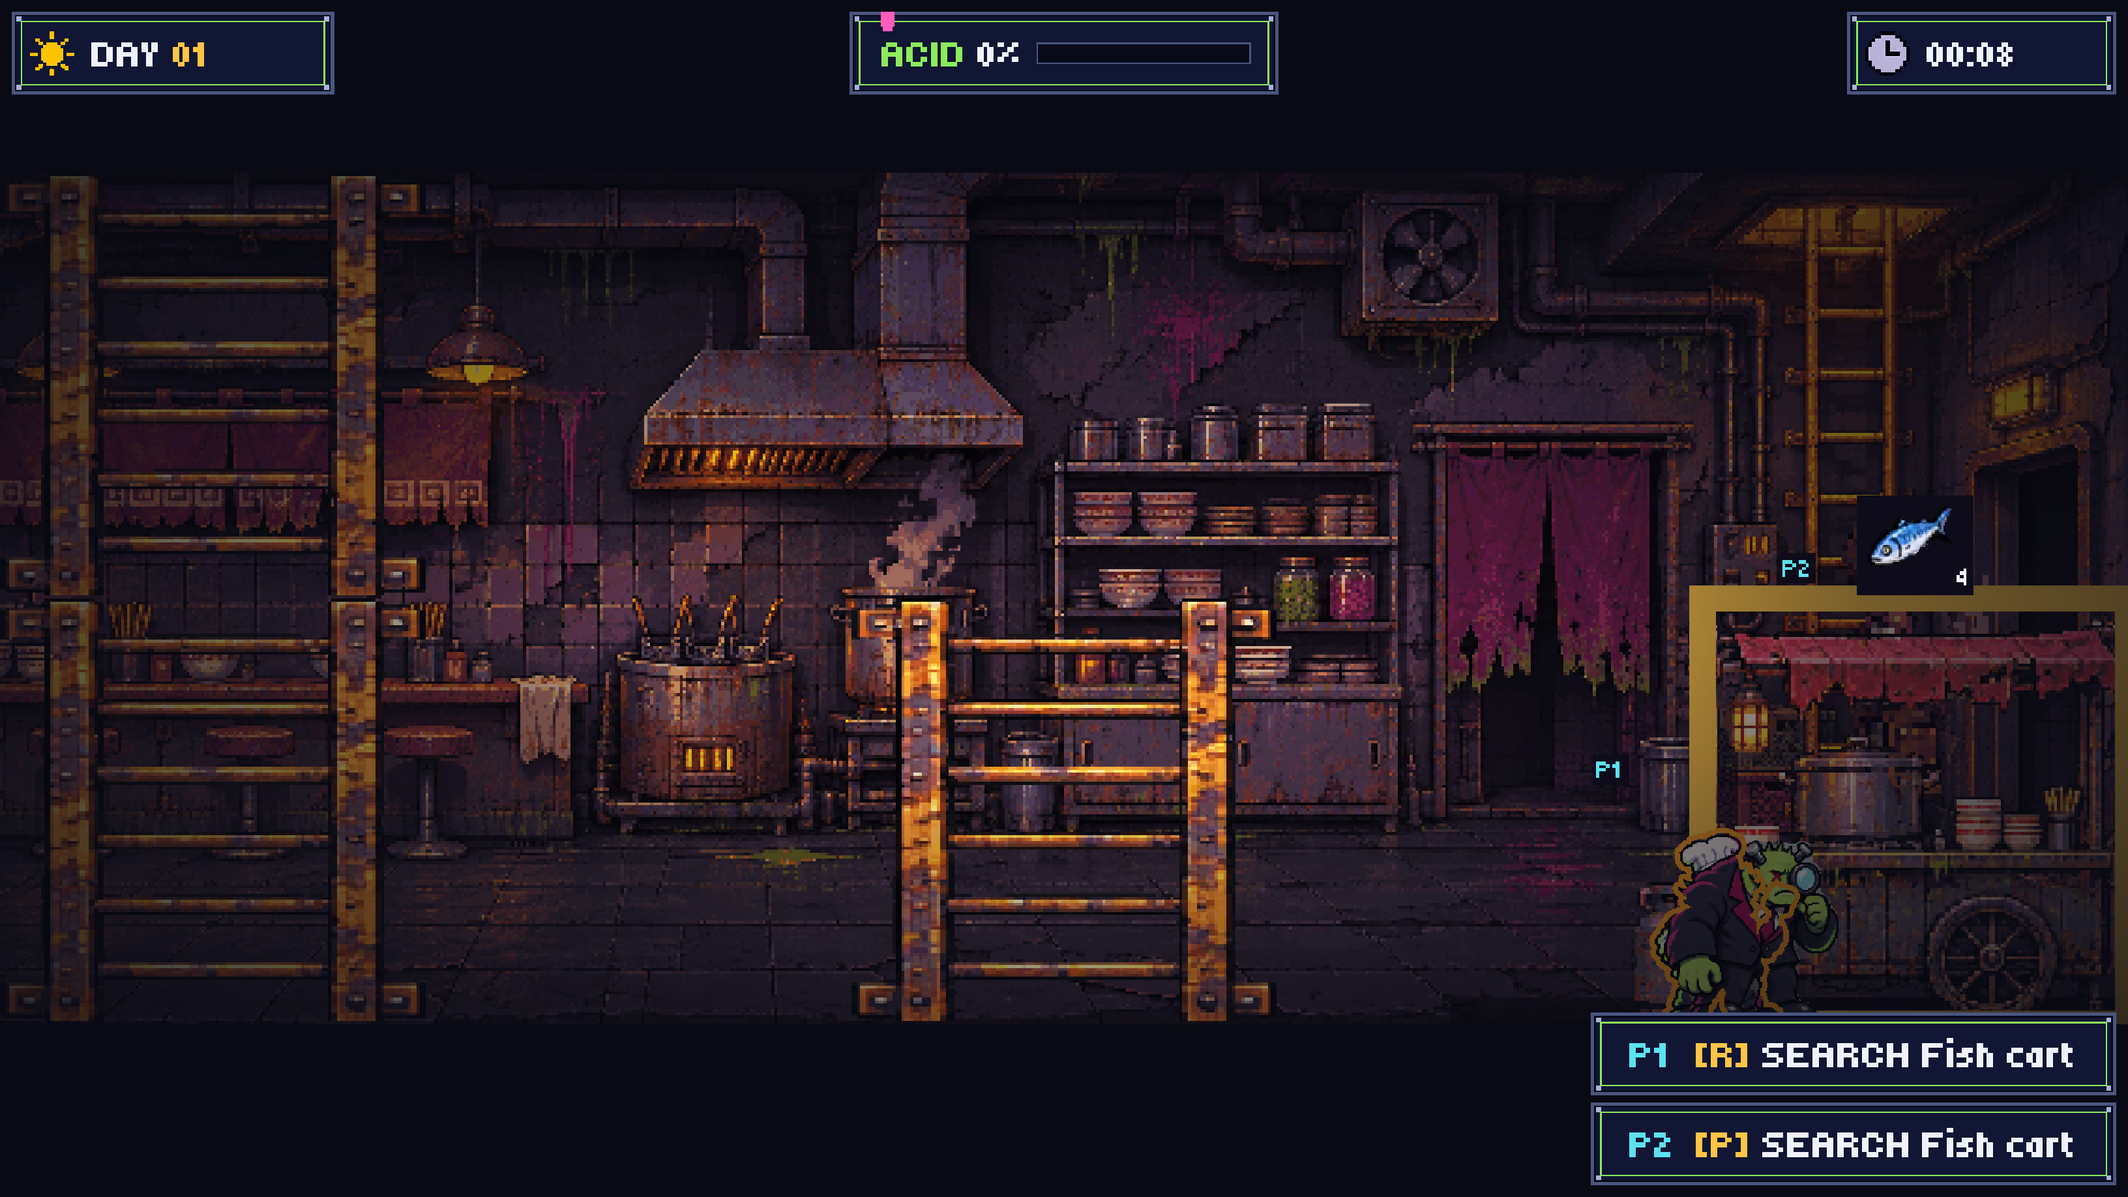
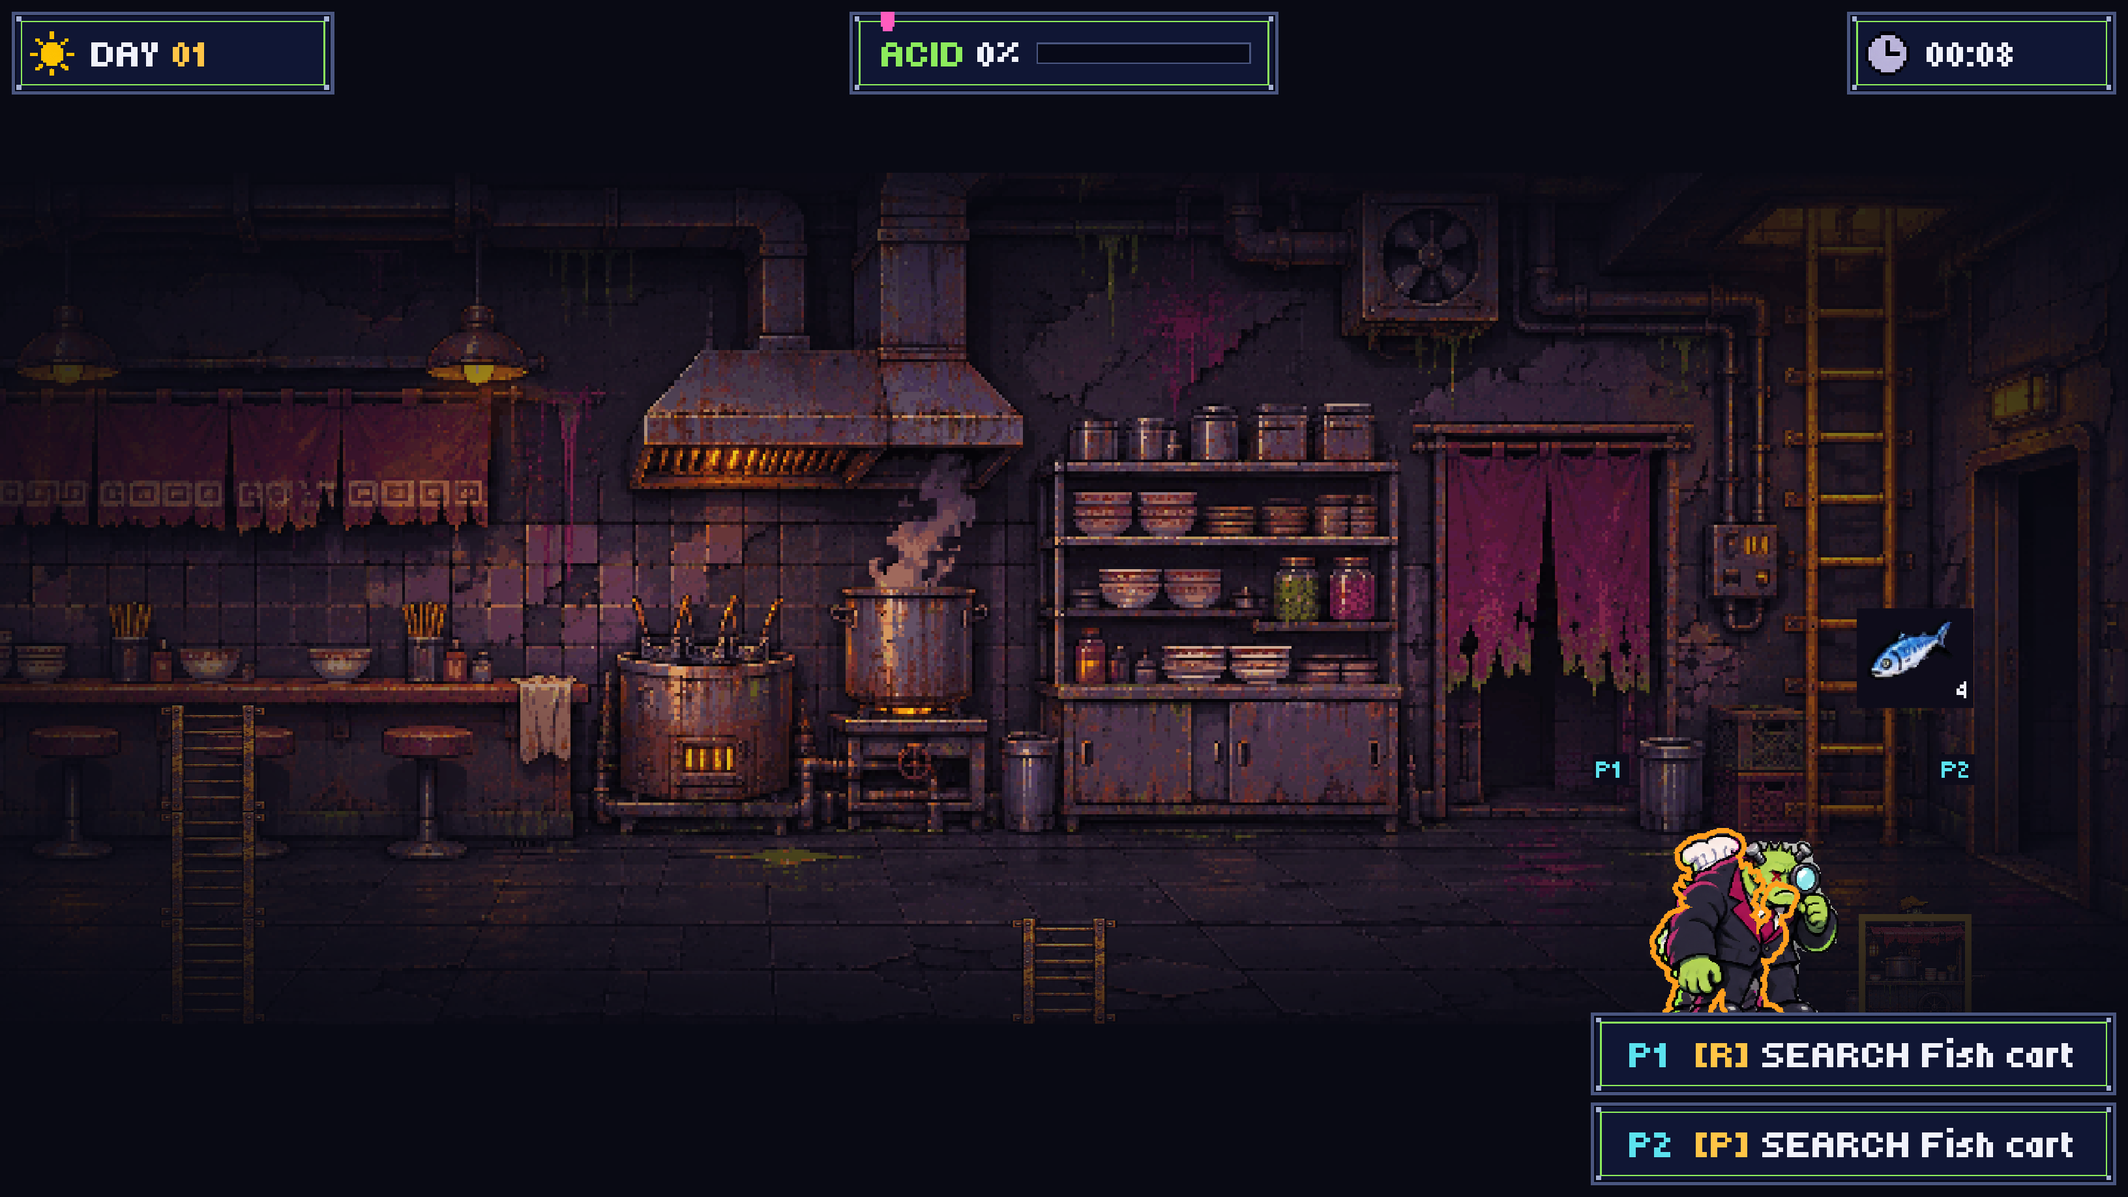
feat: draw the map's objects at room scale indoors and strengthen the vignette

diff --git a/src/rendering/survival.cpp b/src/rendering/survival.cpp
@@ -1187,22 +1187,29 @@ struct VignetteRing {
   float opacity;
 };
 constexpr std::array VIGNETTE_RINGS{
-    VignetteRing{.reach = 0.3F, .opacity = 0.0F},
-    VignetteRing{.reach = 0.75F, .opacity = 0.55F},
-    VignetteRing{.reach = 1.5F, .opacity = 1.0F}};
+    VignetteRing{.reach = 0.4F, .opacity = 0.0F},
+    VignetteRing{.reach = 0.75F, .opacity = 0.4F},
+    VignetteRing{.reach = 1.0F, .opacity = 0.75F},
+    VignetteRing{.reach = 1.45F, .opacity = 1.0F}};
 constexpr int VIGNETTE_STEPS = 48;
 
-void paint_vignette(godot::Node2D &canvas, const Art &art) {
+void paint_vignette(godot::Node2D &canvas, const Art &art,
+                    const godot::Rect2 &room) {
   const auto kept = art.looking();
   art.look(canvas, Vector2(), 1.0F);
   const Vector2 middle(SCREEN_WIDTH / 2.0F, SCREEN_HEIGHT / 2.0F);
+  // The oval's half size: the screen's width, and the room's height on the
+  // screen where it is shorter than the screen, so the room's top and bottom
+  // darken as its sides do.
+  const Vector2 half(middle.x,
+                     std::min(middle.y, room.size.y * kept.zoom / 2.0F));
   const auto tone = palette().background;
   const auto point = [&](const VignetteRing &ring, int step) {
     const float angle = 2.0F * std::numbers::pi_v<float> *
                         static_cast<float>(step) /
                         static_cast<float>(VIGNETTE_STEPS);
-    return middle + Vector2(std::cos(angle) * middle.x * ring.reach,
-                            std::sin(angle) * middle.y * ring.reach);
+    return middle + Vector2(std::cos(angle) * half.x * ring.reach,
+                            std::sin(angle) * half.y * ring.reach);
   };
   const auto shade = [&](const VignetteRing &ring) {
     auto edge = tone;
@@ -1288,6 +1295,22 @@ std::optional<Image> supply_icon(const ObjectSnapshot &source) {
     name = survival::ingredient_name(*source.ingredient);
   }
   return item_icon(name);
+}
+
+/// Where `area` stands when it is drawn inside a building, scaled by `scale`
+/// about the middle of its bottom edge within `extent`: whole objects stand on
+/// the room's floor, and one reaching below the room, as a ladder does, keeps
+/// the part that is in the room.
+Vector2 indoor_pivot(const godot::Rect2 &area, const godot::Rect2 &extent) {
+  const auto shown = area.intersection(extent);
+  return {area.get_center().x,
+          shown.has_area() ? shown.get_end().y : area.get_end().y};
+}
+
+godot::Rect2 indoors(const godot::Rect2 &area, const godot::Rect2 &extent,
+                     float scale) {
+  const Vector2 pivot = indoor_pivot(area, extent);
+  return {pivot + (area.position - pivot) * scale, area.size * scale};
 }
 
 /// One source as the map shows it.
@@ -1702,7 +1725,11 @@ Labels label_city(const Art &art, const survival::GameView &view,
   const auto red = color(255, 150, 150, 1.0F);
   const auto party = party_of(view);
   const auto on_screen = [&](const survival::WorldArea &area) {
-    return to_screen(camera, area_rect(area));
+    const auto box = area_rect(area);
+    return to_screen(
+        camera, camera.inside
+                    ? indoors(box, camera.room, actor_scale(true, camera.zoom))
+                    : box);
   };
   Labels labels{.plates = {},
                 .pointers = camera.inside
@@ -2195,16 +2222,38 @@ void paint_city(godot::Node2D &canvas, const Art &art,
       paint_passage(canvas, art, object, false);
     }
   });
+  // Inside a building the map's objects are drawn at the actors' size, each
+  // on the floor of its room, as the room's picture is at a quarter of theirs.
+  const auto at_room_scale = [&](survival::WorldArea where, auto &&draw) {
+    if (!inside) {
+      draw();
+      return;
+    }
+    const auto kept = art.looking();
+    const float scale = actor_scale(true, kept.zoom);
+    const Vector2 pivot = indoor_pivot(area_rect(where), inside->extent);
+    art.look(canvas, (kept.origin + pivot * kept.zoom * (1.0F - scale)).round(),
+             kept.zoom * scale);
+    draw();
+    art.look(canvas, kept.origin, kept.zoom);
+  };
   paint_kind(ObjectKind::Ladder, [&](const ObjectSnapshot &object) {
-    paint_passage(canvas, art, object, true);
+    at_room_scale(object.area,
+                  [&] { paint_passage(canvas, art, object, true); });
   });
   paint_kind(ObjectKind::Npc, [&](const ObjectSnapshot &object) {
-    paint_npc(canvas, art, object);
+    at_room_scale(object.area, [&] { paint_npc(canvas, art, object); });
   });
   for (const auto &marker : markers) {
-    paint_source(canvas, art, marker);
+    at_room_scale(marker.object.area,
+                  [&] { paint_source(canvas, art, marker); });
   }
   paint_mutants(canvas, art, view);
+  // The room darkens toward the screen's edges under the actors, so they and
+  // the words stay readable.
+  if (inside) {
+    paint_vignette(canvas, art, inside->extent);
+  }
   canvas.set_meta("character_layers", godot::Array());
   if (canvas.has_meta("measure_art")) {
     canvas.set_meta("actor_outlines", godot::Array());
@@ -2225,7 +2274,6 @@ void paint_city(godot::Node2D &canvas, const Art &art,
   paint_interior_covers(canvas, art, everything, view, inside.has_value());
   if (inside) {
     paint_interior_mask(canvas, inside->extent);
-    paint_vignette(canvas, art);
   }
   // The measuring checks read whether the screen is only an inside.
   if (canvas.has_meta("measure_art")) {
@@ -2290,7 +2338,12 @@ void paint_city_labels(godot::Node2D &canvas, const Art &art,
   godot::Array areas;
   for (const auto &marker : markers) {
     drawn.push_back(from(survival::object_name(marker.object.id)));
-    areas.push_back(to_screen(shot.camera, area_rect(marker.object.area)));
+    const auto box = area_rect(marker.object.area);
+    areas.push_back(to_screen(shot.camera,
+                              shot.camera.inside
+                                  ? indoors(box, shot.camera.room,
+                                            actor_scale(true, shot.camera.zoom))
+                                  : box));
   }
   canvas.set_meta("map_plates", labels.plates.boxes());
   canvas.set_meta("map_words", labels.plates.words());

diff --git a/src/rendering/camera.cpp b/src/rendering/camera.cpp
@@ -22,6 +22,8 @@ constexpr float PLAY_HEIGHT = 478.0F;
 /// picture pixel stays a whole square of screen pixels.
 constexpr float CLOSE = 2.0F;
 constexpr float FAR = 1.0F;
+/// How far past a building's rooms, up and down, the camera may look.
+constexpr float OVERLOOK = 4000.0F;
 /// How far ahead of the actors the camera looks, in layout pixels on the
 /// screen, so the actors stand that far behind the middle whatever the zoom.
 constexpr float LOOK_AHEAD = 160.0F;
@@ -81,6 +83,14 @@ godot::Rect2 bounds_of(const survival::MapContent &map) {
       map_point({.x = map.size.width * survival::SUBCELLS, .y = 0});
   return {corner.x - EDGE_ROOM, 0.0F,
           far_corner.x - corner.x + 2.0F * EDGE_ROOM, SCREEN_HEIGHT};
+}
+
+/// Where the camera may look inside a building: its sides, and any height, as
+/// the floors the actors stand on are framed upright and the screen shows
+/// darkness past the building.
+godot::Rect2 bounds_inside(const godot::Rect2 &room) {
+  return {room.position.x, room.position.y - OVERLOOK, room.size.x,
+          room.size.y + 2.0F * OVERLOOK};
 }
 
 /// `centre` and `zoom` kept inside `bounds`, with where they rest.
@@ -163,7 +173,11 @@ View aim(const survival::Content &content, const survival::GameView &view) {
   }
   // The same follow in a building and on the street; only the bounds differ.
   if (inside) {
-    auto camera = placed(target, zoom, inside->extent);
+    // The floors the actors stand on are framed upright, in the middle of the
+    // screen, and followed sideways.
+    target.y =
+        inside->frame.get_center().y + (FOCUS.y - SCREEN_HEIGHT / 2.0F) / zoom;
+    auto camera = placed(target, zoom, bounds_inside(inside->extent));
     camera.inside = true;
     camera.room = inside->extent;
     return camera;
@@ -178,10 +192,10 @@ View follow(const Art &art, const survival::MapContent &content,
   // only a moment is never drawn.
   const float easing = art.glide("camera_zoom", heading.zoom);
   const float zoom = std::clamp(std::floor(easing + 0.5F), FAR, MOST);
-  auto camera =
-      placed(Vector2(art.glide("camera_x", heading.centre.x),
-                     art.glide("camera_y", heading.centre.y)),
-             zoom, heading.inside ? heading.room : bounds_of(content));
+  auto camera = placed(
+      Vector2(art.glide("camera_x", heading.centre.x),
+              art.glide("camera_y", heading.centre.y)),
+      zoom, heading.inside ? bounds_inside(heading.room) : bounds_of(content));
   camera.inside = heading.inside;
   camera.room = heading.room;
   return camera;

diff --git a/docs/architecture/presentation.md b/docs/architecture/presentation.md
@@ -49,7 +49,7 @@ How the GDExtension presents the title screen and the survival game through inpu
 
 [ADR 0039](adr/0039-connect-multi-floor-interiors-to-a-rooftop-route.md) extends interior presentation to multiple floor bands and the aquarium. The map tour in `project/e2e/stairs_check.gd` walks both humans through the cold-store floors, roof connection and service room on days 1, 5 and 10, captures the occupied buildings, and checks their drawn room count, floor alignment, that only the inside is on screen and that only the standing floor is bright. `project/e2e/interior_check.gd` walks both humans into the cold store's ground hall headless and reads what the drawing recorded: no street wall or door picture drawn over the hall's room, the stair's treads standing on the floor line its walker's feet keep and joined down to the floors a row above and below, and every badge and player tag inside the building within two rows over its source's or human's floor line. A deck inside a room on show has no loft underside, and a door picture is not drawn over a building an actor is in. The same check walks both humans along the kitchen and reads that the camera follows (different centres at the door end, middle and far side, the view within the room's sides, the humans within a band around the screen's middle in the middle of the room) and that the open door and the vignette are drawn inside and not on the street.
 
-[ADR 0042](adr/0042-explore-building-interiors-from-inside.md) (its camera replaced by [ADR 0048](adr/0048-follow-the-actors-through-a-room-from-a-wide-view.md)) replaces the cut-away display of ADR 0039 and the outside veil of ADR 0031. While every actor in the city is inside one building the screen draws only that building: `rendering::inside_of` gives the camera the building's extent and its lit floors: it follows the actors within the extent with the street's aim and easing, 160 layout pixels of look-ahead at any zoom, and the whole zoom from 1 to 8 that brings the lit floors nearest to 71% of the screen's height (8 for a shop, whose room then scrolls past), and the actors are drawn at the street's close zoom over the camera's of their size, so a character is as tall on the screen as on the street and a quarter of a shop room's height, `paint_mouth` and `paint_glow` leave the backdrop and the glow out, `paint_city` hides everything beyond the building's extent and covers every floor nobody stands on, draws the room picture over the decks that reach into it, its ground-floor door open onto a cut of the city layer and, last, a soft oval vignette over the screen's edges under the interface, and the labels leave out pointers and names off the room. With one actor outside the street is drawn as usual and only the rooms actors stand on are lit. Map art is sized by the world area its picture covers, a table in `src/rendering/drawing.cpp`, and its pixel density is derived from the texture, so a finer replacement, such as the 144-pixel kit of ADR 0043, keeps its size and position on screen. Interface art, characters and the title are outside this rule.
+[ADR 0042](adr/0042-explore-building-interiors-from-inside.md) (its camera replaced by [ADR 0048](adr/0048-follow-the-actors-through-a-room-from-a-wide-view.md)) replaces the cut-away display of ADR 0039 and the outside veil of ADR 0031. While every actor in the city is inside one building the screen draws only that building: `rendering::inside_of` gives the camera the building's extent and its lit floors: it follows the actors within the extent with the street's aim and easing, 160 layout pixels of look-ahead at any zoom, and the whole zoom from 1 to 8 that brings the lit floors nearest to 71% of the screen's height (8 for a shop, whose room then scrolls past), and the actors and the map's objects are drawn at the street's close zoom over the camera's of their size (each object about the middle of its bottom edge within the room), so a character is as tall on the screen as on the street and a quarter of a shop room's height, `paint_mouth` and `paint_glow` leave the backdrop and the glow out, `paint_city` hides everything beyond the building's extent and covers every floor nobody stands on, draws the room picture over the decks that reach into it, its ground-floor door open onto a cut of the city layer and a soft oval vignette over the room's edges under the actors and the interface, and the labels leave out pointers and names off the room. With one actor outside the street is drawn as usual and only the rooms actors stand on are lit. Map art is sized by the world area its picture covers, a table in `src/rendering/drawing.cpp`, and its pixel density is derived from the texture, so a finer replacement, such as the 144-pixel kit of ADR 0043, keeps its size and position on screen. Interface art, characters and the title are outside this rule.
 
 [ADR 0040](adr/0040-author-map-pieces-in-an-aseprite-kit.md) records native Aseprite source ownership and explicit per-building interior artwork for the first Toxic Night map kit.
 

diff --git a/docs/architecture/adr/0048-follow-the-actors-through-a-room-from-a-wide-view.md b/docs/architecture/adr/0048-follow-the-actors-through-a-room-from-a-wide-view.md
@@ -14,8 +14,9 @@ The room pictures and the characters are on different scales. A shop room is 192
 ## Decision
 
 - Inside a building the camera aims, eases and steps its zoom exactly as on the street, with the building's extent as its bounds: the view stays within the room's sides, and centres on a room narrower than itself. The zoom is the whole number, from 1 to 8, that brings the rooms the actors stand on nearest to 71% of the screen's height: 8 for a shop's room, 1536 by 512 units, about one and a fifth screens wide, so it scrolls. The look-ahead, the actors' distance behind the middle of the screen, is 160 layout pixels at every zoom; two actors inside a building look ahead together as far as they face the same way, and on the street a pair is framed centred as before.
-- Actors are drawn smaller inside a building: by the street's close zoom over the camera's, so a character is as tall on the screen as on the street, one picture pixel to a canvas pixel at every zoom and so not resampled, and a quarter of a shop room's height. Their bodies, collision, badges and tags are unchanged, and the labels follow the drawn size. A character shrinks on entering a building, from the street's zoom of 2 to the room's 8, in the same size on the screen but in a room four times its height.
-- A soft oval vignette is drawn over the whole screen while the view is only a building's inside, under the interface: clear toward the middle, darkening to the background colour past the screen's corners.
+- Actors are drawn smaller inside a building: by the street's close zoom over the camera's, so a character is as tall on the screen as on the street, one picture pixel to a canvas pixel at every zoom and so not resampled, and a quarter of a shop room's height. Their bodies and collision are unchanged. The map's objects drawn inside a building (ladders, sources with their search frames, people) go through the same step: each is drawn at the same size, scaled about the middle of its bottom edge within the room, so it stands on the room's floor at its own column, one picture pixel to a canvas pixel; the badges, tags and pointers are placed from the scaled boxes. One rule for every object, with no exception per kind. A character shrinks on entering a building, from the street's zoom of 2 to the room's 8, in the same size on the screen but in a room four times its height.
+- A soft oval vignette is drawn over the room while the view is only a building's inside, under the actors and the interface so they and the words stay readable: the oval is the screen's width and the room's height on the screen, clear toward the middle and darkening to the background colour past the room's edges, top and bottom included.
+- The floors the actors stand on are framed upright, in the middle of the screen, and followed sideways.
 - The door of the room picture at the building's lowest floor is drawn open: its opening shows the street, cut from the city layer with the acid's glow at its foot, and the door leaf hangs swung back at its hinge. The opening is a rectangle per room picture, in `src/rendering/survival.cpp`. No new art is made.
 - The room picture is drawn over the map's decks that reach into it, which it draws for itself.
 - Rooms keep their two rows; the three-row room is not drawn.
@@ -30,7 +31,7 @@ The room pictures and the characters are on different scales. A shop room is 192
 - The room fills 71% of the screen's height and the screen's width, scrolling 256 pixels across the kitchen and the noodle shop; the Cold Store's floors and the service room are drawn at the zoom their lit floors call for, 5 and 3 or less, with the actors the street's size on the screen.
 - `StairsCheck -- --interior-zoom` reads that the chef is drawn no taller on the screen in any building than on the street, equally tall in all of them, and each building at the street's zoom or nearer.
 - `InteriorCheck` walks both humans along the kitchen and reads that the camera's centre differs between the door end, the middle and the far side, that the view stays within the room's sides, that the humans stand within a band around the screen's middle in the middle of the room and within the screen at its ends, and that an open door and the vignette are drawn inside and neither on the street.
-- The map's ladders are drawn over a room at the room's zoom, one cell, 256 pixels, wide each, though the room picture draws its own; this is left as it was.
+- A ladder, whose object runs below the room's floor, shows the part in the room as a short ladder on the floor at its own column; the room picture's own ladder is where it was drawn.
 
 ## Signs the decision was wrong
 
